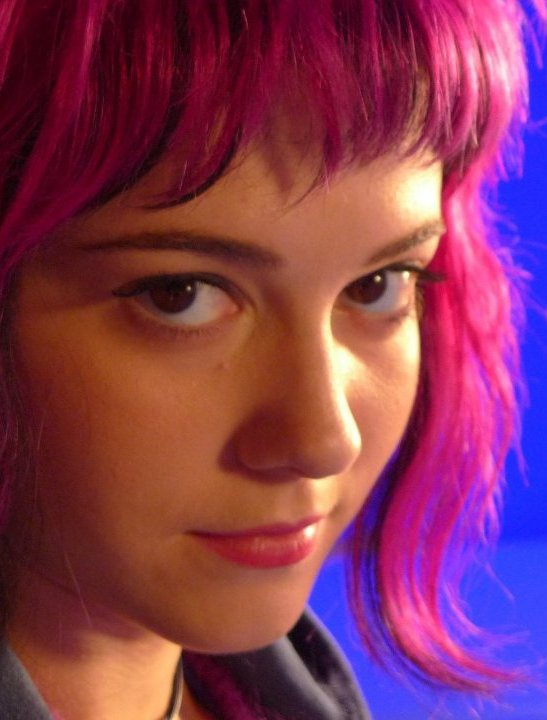
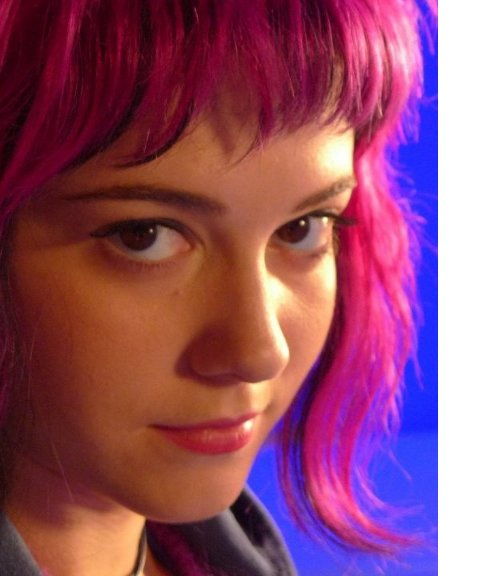
made the slideshow better. fixed the size problem

diff --git a/templates/index.html b/templates/index.html
@@ -81,10 +81,8 @@ $(function() {
   {% endif %}
   {% if old_slides%}
   {% for slide in old_slides %}
-  <img src="/media/blank.jpg" /><!-- clear the space -->
   <img src="/media/{{ slide.filename }}" />
   {% endfor %}
-  <img src="/media/blank.jpg" />
   {% endif %}
  </div>
 {% endblock %}
